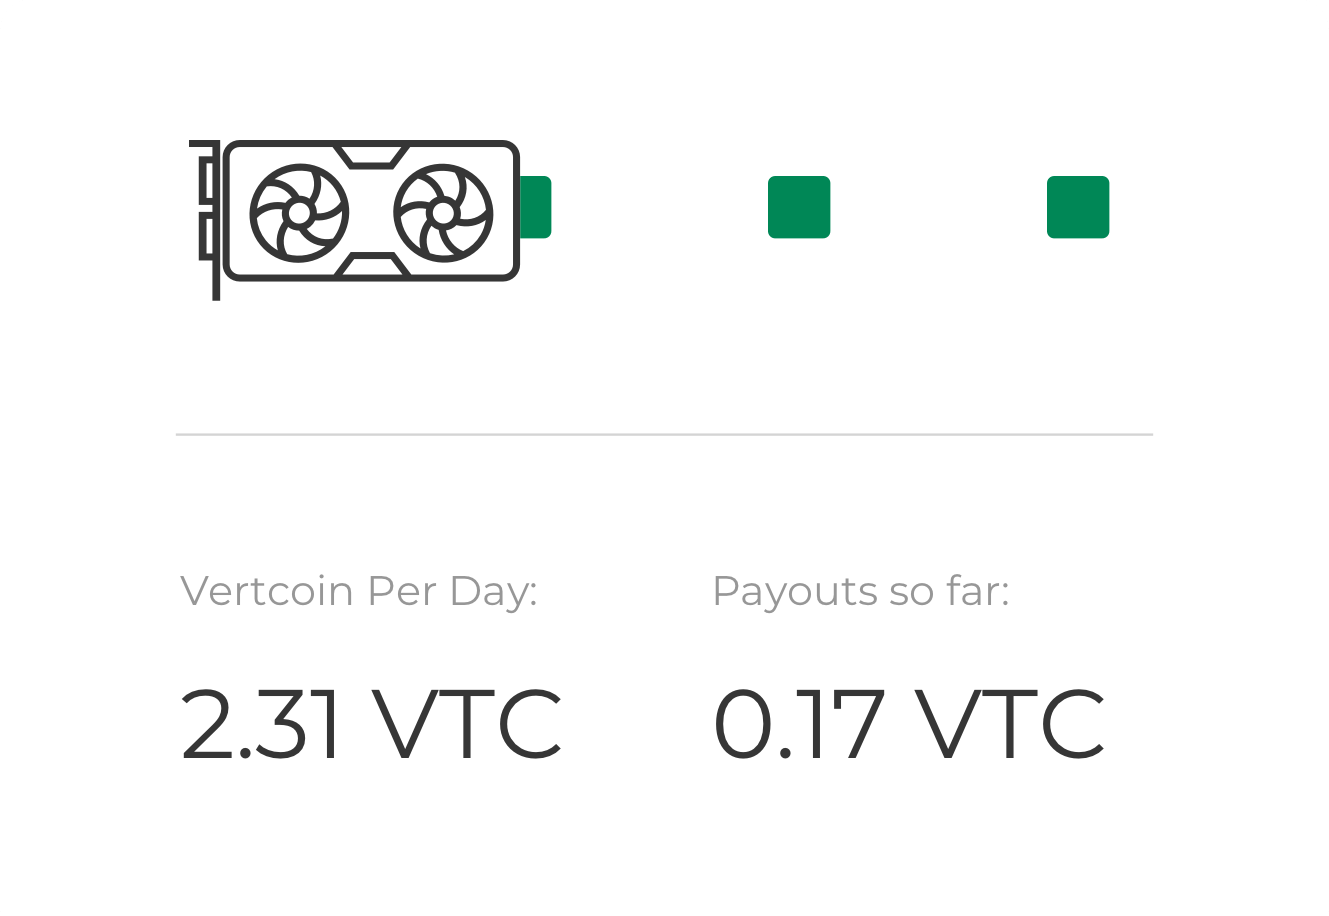
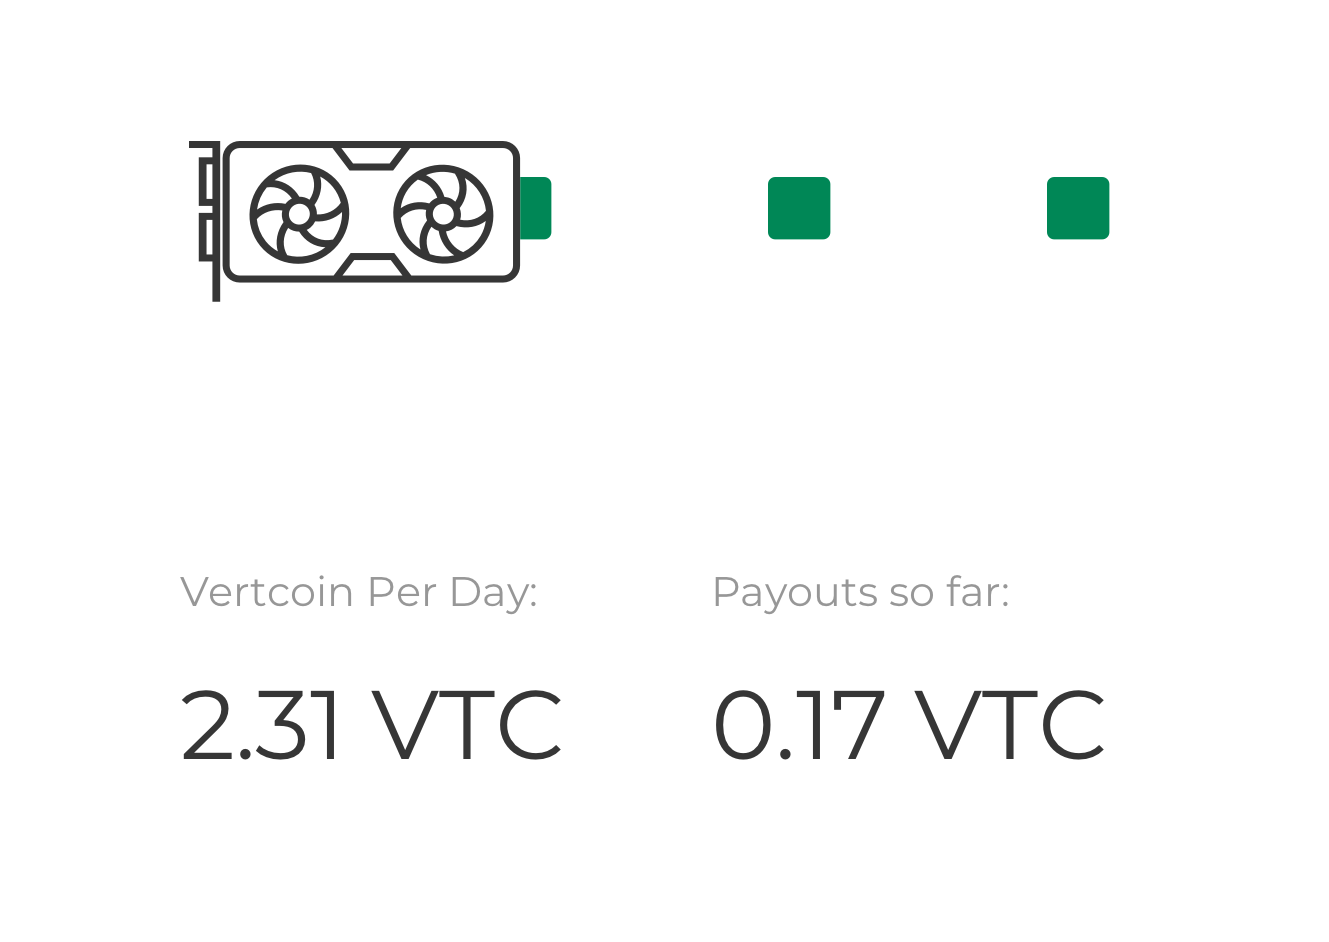
Push
Push

diff --git a/index.html b/index.html
@@ -66,8 +66,7 @@
 <section class="introduction">
     <div class="content">
         <h3>Decentralize Mining.</h3>
-        <p>Vertcoin represents the only meaningful change you can make to Bitcoin, take network control from mining monopolies and give it back to the people.
-
+        <p>Vertcoin was created in Jan 2014. It’s aim is to achieve a more decentralized mining network (security layer) than Bitcoin using Graphics Cards.
 
 
         </p>
@@ -87,7 +86,7 @@
         <!--        <div class="label">Vertcoin Core For Mac OS X (V16.3)</div>-->
 
     </div>
-    <img class="computerCrop" src="/img/computerCrop.png" alt="">
+    <img class="computerCrop" src="/img/computer.png" alt="">
 
 </section>
 
@@ -95,11 +94,11 @@
 
 
 
-<section class="oneclickminer">
+<section class="mainoverview oneclickminer">
     <div class="maxWidth">
         <div class="col2 centred">
             <h3>Mine With Your Home Desktop Computer</h3>
-            <p>Run the software and your computer will solve mathmatical puzzles for a Vertcoin reward. This contributes to the Vertcoin's security as a network. Visit on your computer to download it.</p>
+            <p>Run the software and your computer will solve mathmatical puzzles for a Vertcoin reward. This contributes to the Vertcoin's security as a network.</p>
             <a class="desktop" href="https://github.com/vertcoin-project/One-Click-Miner/releases/download/1.2.0.0/VertcoinOneClickMinerSetup.msi">
                 <button><svg width="16px" height="17px" viewBox="0 0 16 17" version="1.1" xmlns="http://www.w3.org/2000/svg" xmlns:xlink="http://www.w3.org/1999/xlink">
                         <!-- Generator: Sketch 52.2 (67145) - http://www.bohemiancoding.com/sketch -->
@@ -148,7 +147,7 @@
 <section class="asics desktop">
     <div class="maxWidth">
         <div class="col2 centred">
-            <h3>Hedge against Bitcoin mining centralization
+            <h3>Hedge against Bitcoin Mining Centralization / Bitcoin Mining Politics
             </h3>
             <p>Vertcoin is an early 2014 sibling of Bitcoin. It was the first to disagree with specialized device (ASIC Mining) as it foresees specialized mining devices centralizing network control due to the manufactuer economic incentives involved due to Bitcoin's mining algorithm structure.</p>
 
@@ -168,8 +167,8 @@
 <section class="houses">
     <div class="col1 center">
         <h3>Run A Full Node</h3>
-        <p>Join the effort to share and backup the Vertcoin blockchain. Running a node is free, simply run the software and it will download from users already running the network. </p>
-        <img style="filter: drop-shadow(0px 11px 40px rgba(0, 0, 0, 0.11))" src="/img/pi.png" alt="">
+        <p>Join the effort to share and backup the Vertcoin blockchain. Running a node is free, simply run the software and it backup and serve the Vertcoin network history.</p>
+        <img class="fullNode" style="filter: drop-shadow(0px 11px 40px rgba(0, 0, 0, 0.11))" src="/img/pi.png" alt="">
         <a href="https://github.com/vertcoin-project/vertcoin-core/releases/download/0.13.3/vertcoin-qt-v0.13.3-macos.dmg"><button><svg width="16px" height="17px" viewBox="0 0 16 17" version="1.1" xmlns="http://www.w3.org/2000/svg" xmlns:xlink="http://www.w3.org/1999/xlink">
                     <!-- Generator: Sketch 52.2 (67145) - http://www.bohemiancoding.com/sketch -->
                     <title>Shape</title>
@@ -188,9 +187,8 @@
 
 <section class="statement">
     <div class="col1 center">
-        <h3 style="font-size: 27px;">Vertcoin is made to help the little guy not because it's unfair,<br>
-            but because it's the only way decentralized currency will work.</h3>
-        Vertcoin will continue to be a well rounded hedge against Bitcoin mining centralization.
+        <h3 style="font-size: 27px;">Mining must be geared in favour of the little guy, otherwise the system centralizes.</h3>
+        <p>Vertcoin will continue to be a well rounded hedge against Bitcoin mining centralization.</p>
     </div>
 </section>
 
@@ -253,7 +251,7 @@
 
 
         <div class="donationBox">
-            <div>Vertcoin Dev Team is community supported.</div>
+            <div>The Vertcoin Project is community supported.</div>
             <div class="qrbutton"><img src="/img/qr.png" alt="" width="58px" height"58px"="">
                 <a href="/donate.html"><button style="
     width: -webkit-fill-available;

diff --git a/css/main.css b/css/main.css
@@ -165,6 +165,7 @@ button {
 
     width: 100%;
     border-radius: 60px !important;
+    border-radius: 0px !important;
     font-size: 15px;
 
 
@@ -210,14 +211,14 @@ button svg {
 
 .download {
     background: #048657;
-    border-radius: 5px;
+    /*    border-radius: 5px;*/
     font-size: 15px;
     color: white !important;
     box-shadow: 0px 2px 10px rgba(0, 0, 0, 0.12);
     border: none;
     padding: 0px 23px;
     display: block;
-    border-radius: 60px;
+    /*    border-radius: 60px;*/
 }
 
 
@@ -263,10 +264,11 @@ button svg {
 .computerCrop {
     position: absolute;
     left: 0px;
-    bottom: 0px;
+    bottom: -80px;
     width: 357px;
     display: none;
     min-height: 266px;
+    z-index: 99;
 }
 
 
@@ -295,8 +297,8 @@ button svg {
     /* position: absolute; */
     width: 100%;
     margin: 0 auto;
-    position: relative;
-    position: fixed;
+    position: absolute;
+
     width: 100%;
     z-index: 5000;
     top: 0px;
@@ -461,6 +463,8 @@ button svg {
     box-sizing: border-box;
     margin-top: 40px;
     height: 90vh;
+    border: none;
+    margin-bottom: -260px;
 
 }
 
@@ -472,6 +476,8 @@ button svg {
         height: 525px;
         height: 100vh;
         margin-top: 0px;
+        margin-bottom: 0px;
+        margin-bottom: -90px;
     }
 
     .introduction .content p {
@@ -544,6 +550,16 @@ button svg {
 }
 
 
+.oneclickminer,
+.houses {
+    background: #000;
+}
+
+.oneclickminer h3,
+.houses h3 {
+    color: white;
+}
+
 
 
 .oneclickminer h3 {
@@ -556,7 +572,7 @@ button svg {
 .asics img {
     box-shadow: 0px 2px 10px rgba(0, 0, 0, 0.12);
     margin-bottom: 44px;
-    border-radius: 10px;
+    /*    border-radius: 10px;*/
 
 
 }
@@ -613,14 +629,14 @@ button svg {
 @media only screen and (min-width: 600px) {
     .oneclickminer {
         display: flex;
-        background: none;
+
     }
 }
 
 .oneclickminer--mockup {
 
     box-shadow: 0px 11px 40px rgba(0, 0, 0, 0.11);
-    border-radius: 10px;
+    /*    border-radius: 10px;*/
 
     max-width: none;
     overflow: hidden;
@@ -632,7 +648,7 @@ button svg {
         margin: 0px;
         max-width: 443px;
         max-width: 34.609375vw;
-        border-radius: 10px;
+        /*        border-radius: 10px;*/
         overflow: hidden;
         margin: 44px 0px;
     }
@@ -779,7 +795,7 @@ button svg {
 
 .donationBox {
     font-size: 11px;
-    font-size: 13px;
+    font-size: 12px;
     margin-top: 73px;
     margin-bottom: 18px;
 }
@@ -1115,9 +1131,10 @@ blockquote {
 
 
 .center {
-    text-align: left;
-    font-size: 21px;
+    text-align: center;
+    /*    font-size: 21px;*/
     max-width: 963px;
+    max-width: 473px;
     margin: 0 auto;
     line-height: 1.8;
     padding: 98px 0px 103px;
@@ -1240,4 +1257,18 @@ only screen and (max-device-width: 40em) .card {
 section.statement .col1 {
     font-size: 18px;
 
+}
+
+
+.fullNode {
+    margin-bottom: 40px;
+}
+
+
+.mainoverview {
+    position: relative;
+    padding: 375px 0 130px;
+    background: url(../img/overview-bg.svg) top no-repeat;
+    background-size: cover;
+    text-align: center;
 }

diff --git a/about.html b/about.html
@@ -71,7 +71,7 @@
 
     <div class="content">
         <h3>Vertcoin's Aim</h3>
-        <p>Vertcoin has one aim, to achieve a better alternative to the mining centralization that takes place on the Bitcoin network. Vertcoin does not have all the flashy features as blockchains only have one genuine use case, 'decentralized money in an enclosed system'. Every other usecase is better suited to a central database.
+        <p>Vertcoin has one aim, to achieve a better alternative to the mining centralization that takes place on the Bitcoin network. Vertcoin does not have all the flashy features other blockchains have as blockchains only have one genuine use case, 'decentralized money in an enclosed system'. Every other usecase is better suited to a central database.
 
             <br><br>Bitcoin is without a doubt the most advanced cryptocurrency to date. Any improvements are extremely hard to achieve. If you would like to know why Bitcoin has the best specifcation set, there's a guide in the 'Specifications Explained' section that explains the design choices of blockchains & distributed systems tech in laymans terms.<br><br>Vertcoin is attempting to show that a system fully run by its users is possible, meaning that it becomes the dominant GPU minined coin representing the majority of total GPU hashrate. If it were to achieve GPU dominance, it would represent meaningful improvement over Bitcoin's protocol layer offering improved decentralization and subsequently long-term security.<br><br> Achieving GPU dominance is not easy but we know it is possible, as Ethereum currently has it in some form. Bitcoin maximalists always say that if an altcoin ever makes any meaningful improvement over Bitcoin, it will just fork and adopt those changes. This is highly unlikely given the politics and ASICs involved in Bitcoin's Proof-of-Work.<br><br> Network security is not defined by total hashrate alone, it also requires that hashrate to be distributed across different sources and then appropriately pooled using p2pool or such equivalents. If this was ever achieved at that scale, you would have a safer more robust network than Bitcoin.<br><br> If you share the same goal, start up a Vertcoin full node with the core wallet and download one-click miner and get hashing.</p>
         <h3>Ethics</h3>

diff --git a/mining.html b/mining.html
@@ -64,7 +64,7 @@
 
 <section class="introduction">
     <div class="content">
-        <h3>Put Your Computer To Work</h3>
+        <h3>Mine Vertcoin</h3>
         <p>Make money using your home desktop computer. Let your computer verify transactions and provide security to the network, you get paid Vertcoin for it.
 
 
